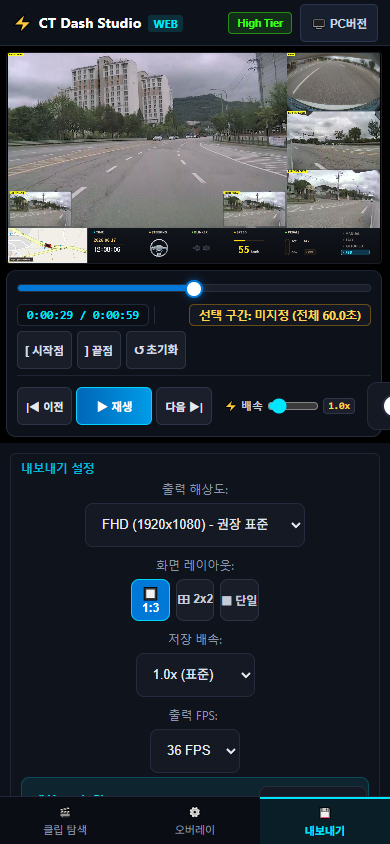
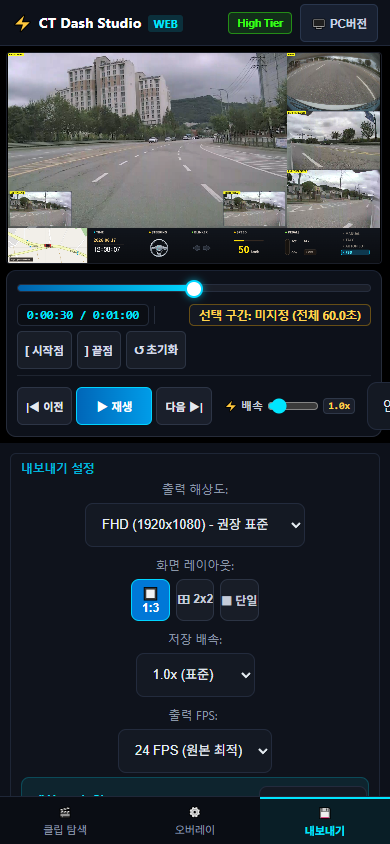
fix(mobile): resolve mobile freeze by supporting multi-file selection, non-blocking media loading, and safe SEI parsing

diff --git a/src/main.ts b/src/main.ts
@@ -41,6 +41,7 @@ class CTDashcamStudioApp {
 
   // Video elements pool
   private videoPool: Partial<Record<CameraKey, HTMLVideoElement>> = {};
+  private currentVideoUrls: string[] = [];
   private videoContainer: HTMLElement;
   private canvas: HTMLCanvasElement;
 
@@ -332,11 +333,21 @@ class CTDashcamStudioApp {
     });
     // 1. Open Folder Button & Fallback Inputs
     const btnOpenFolder = document.getElementById('btn-open-folder');
+    const btnOpenFiles = document.getElementById('btn-open-files');
     const fallbackFolderInput = document.getElementById('fallback-folder-input') as HTMLInputElement;
     const fallbackFileInput = document.getElementById('fallback-file-input') as HTMLInputElement;
 
     btnOpenFolder?.addEventListener('click', async () => {
-      // 1) 보안 컨텍스트(HTTPS or localhost)에서 File System Access API 지원 시 우선 사용
+      // 모바일 기기는 브라우저 webkitdirectory 폴더 지정을 지원하지 않으므로 곧바로 다중 파일 선택기 실행
+      if (this.isMobileDevice()) {
+        if (fallbackFileInput) {
+          fallbackFileInput.value = '';
+          fallbackFileInput.click();
+        }
+        return;
+      }
+
+      // 1) 데스크톱 보안 컨텍스트(HTTPS or localhost)에서 File System Access API 지원 시 우선 사용
       if ('showDirectoryPicker' in window && (window.isSecureContext || window.location.hostname === 'localhost' || window.location.hostname === '127.0.0.1')) {
         try {
           const dirHandle = await (window as any).showDirectoryPicker();
@@ -351,11 +362,18 @@ class CTDashcamStudioApp {
         }
       }
 
-      // 2) 다른 컴퓨터(HTTP 원격 접속 등)에서는 HTML5 표준 webkitdirectory 폴더 선택 창 실행
+      // 2) 데스크톱 브라우저 HTML5 표준 webkitdirectory 폴더 선택 창 실행
       if (fallbackFolderInput) {
         fallbackFolderInput.value = '';
         fallbackFolderInput.click();
       } else if (fallbackFileInput) {
+        fallbackFileInput.value = '';
+        fallbackFileInput.click();
+      }
+    });
+
+    btnOpenFiles?.addEventListener('click', () => {
+      if (fallbackFileInput) {
         fallbackFileInput.value = '';
         fallbackFileInput.click();
       }
@@ -1010,17 +1028,23 @@ class CTDashcamStudioApp {
         if (clip.isParking !== undefined) continue;
         const frontFile = clip.cams.front;
         if (frontFile) {
-          const handle = new BlobFileHandle(frontFile);
-          const isParking = await RealTeslaSEIDecoder.quickCheckIsParking(handle);
-          clip.isParking = isParking;
+          try {
+            const handle = new BlobFileHandle(frontFile);
+            const isParking = await RealTeslaSEIDecoder.quickCheckIsParking(handle);
+            clip.isParking = isParking;
 
-          // Update UI row badge
-          const tagEl = document.getElementById(`tag-${clip.id.replace(/[^a-zA-Z0-9_-]/g, '_')}`);
-          if (tagEl) {
-            tagEl.className = `clip-type-tag ${isParking ? 'parking' : 'driving'}`;
-            tagEl.textContent = `[${isParking ? '주차' : '주행'}] ${Object.keys(clip.cams).length}채널`;
+            // Update UI row badge
+            const tagEl = document.getElementById(`tag-${clip.id.replace(/[^a-zA-Z0-9_-]/g, '_')}`);
+            if (tagEl) {
+              tagEl.className = `clip-type-tag ${isParking ? 'parking' : 'driving'}`;
+              tagEl.textContent = `[${isParking ? '주차' : '주행'}] ${Object.keys(clip.cams).length}채널`;
+            }
+          } catch (e) {
+            console.warn('[App] quickCheckIsParking error:', e);
           }
         }
+        // Yield to event loop to keep UI completely responsive on mobile
+        await new Promise((resolve) => setTimeout(resolve, 10));
       }
     }
   }
@@ -1093,6 +1117,15 @@ class CTDashcamStudioApp {
 
     // Setup Video Elements
     this.videoContainer.innerHTML = '';
+    // Revoke previous URLs to prevent memory bloat on mobile devices
+    if (this.currentVideoUrls && this.currentVideoUrls.length > 0) {
+      this.currentVideoUrls.forEach((url) => {
+        try {
+          URL.revokeObjectURL(url);
+        } catch {}
+      });
+    }
+    this.currentVideoUrls = [];
     this.videoPool = {};
 
     const camKeys = Object.keys(clip.cams) as CameraKey[];
@@ -1101,30 +1134,58 @@ class CTDashcamStudioApp {
       if (!file) continue;
 
       const video = document.createElement('video');
-      video.src = URL.createObjectURL(file);
+      const url = URL.createObjectURL(file);
+      this.currentVideoUrls.push(url);
+      video.src = url;
       video.muted = true;
       video.playsInline = true;
+      video.setAttribute('playsinline', '');
+      video.setAttribute('webkit-playsinline', '');
       video.preload = 'auto';
       this.videoContainer.appendChild(video);
       this.videoPool[key] = video;
+      try {
+        video.load();
+      } catch {}
     }
 
-    // Get duration from master video
+    // Get duration from master video with safe timeout for mobile browsers
     const masterVideo = this.videoPool.front || Object.values(this.videoPool)[0];
     if (masterVideo) {
       await new Promise<void>((resolve) => {
-        if (masterVideo.readyState >= 1) resolve();
-        else masterVideo.onloadedmetadata = () => resolve();
+        if (masterVideo.readyState >= 1) {
+          resolve();
+          return;
+        }
+        let done = false;
+        const finish = () => {
+          if (!done) {
+            done = true;
+            resolve();
+          }
+        };
+        masterVideo.onloadedmetadata = finish;
+        masterVideo.onloadeddata = finish;
+        masterVideo.oncanplay = finish;
+        masterVideo.onerror = finish;
+        // 1.5s fallback timeout: ensures mobile UI never freezes if metadata is delayed or blocked
+        setTimeout(finish, 1500);
       });
-      this.durationSec = masterVideo.duration || 60.0;
+      this.durationSec = masterVideo.duration && !isNaN(masterVideo.duration) && masterVideo.duration > 0
+        ? masterVideo.duration
+        : 60.0;
     }
 
     // Parse SEI data from front camera
     if (clip.cams.front && !this.clipDecoders.has(clip.id)) {
-      const decoder = new RealTeslaSEIDecoder();
-      const handle = new BlobFileHandle(clip.cams.front);
-      await decoder.parseMp4Sei(handle);
-      this.clipDecoders.set(clip.id, decoder);
+      try {
+        const decoder = new RealTeslaSEIDecoder();
+        const handle = new BlobFileHandle(clip.cams.front);
+        await decoder.parseMp4Sei(handle);
+        this.clipDecoders.set(clip.id, decoder);
+      } catch (err) {
+        console.warn('[App] Failed to parse SEI metadata for clip', clip.id, err);
+      }
     }
 
     this.seekTo(0);

diff --git a/src/core/i18n.ts b/src/core/i18n.ts
@@ -3,6 +3,7 @@ export type SupportedLang = 'ko' | 'en' | 'ja' | 'zh-CN' | 'zh-TW';
 export const TRANSLATIONS: Record<SupportedLang, Record<string, string>> = {
   ko: {
     btn_open_folder: '📁 TeslaCam 폴더 지정',
+    btn_open_files: '📹 영상 파일(들) 직접 선택 (모바일 권장)',
     col_name: '클립 탐색기',
     col_type: '유형 / 채널',
     empty_state: '폴더를 지정하거나 영상 파일을 선택하면 클립 목록이 여기에 표시됩니다.',
@@ -50,6 +51,7 @@ export const TRANSLATIONS: Record<SupportedLang, Record<string, string>> = {
   },
   en: {
     btn_open_folder: '📁 Open TeslaCam Folder',
+    btn_open_files: '📹 Select Video File(s) (Mobile)',
     col_name: 'Clip Explorer',
     col_type: 'Type / Channels',
     empty_state: 'Select a TeslaCam folder to load clips here.',
@@ -97,6 +99,7 @@ export const TRANSLATIONS: Record<SupportedLang, Record<string, string>> = {
   },
   ja: {
     btn_open_folder: '📁 TeslaCamフォルダー指定',
+    btn_open_files: '📹 動画ファイルを直接選択 (モバイル推奨)',
     col_name: 'クリップエクスプローラー',
     col_type: 'タイプ / チャンネル',
     empty_state: 'フォルダーを指定するとクリップ一覧がここに表示されます。',
@@ -144,6 +147,7 @@ export const TRANSLATIONS: Record<SupportedLang, Record<string, string>> = {
   },
   'zh-CN': {
     btn_open_folder: '📁 指定TeslaCam文件夹',
+    btn_open_files: '📹 直接选择视频文件 (手机推荐)',
     col_name: '片段浏览器',
     col_type: '类型 / 通道',
     empty_state: '指定文件夹或选择视频文件后，片段列表将在此显示。',
@@ -191,6 +195,7 @@ export const TRANSLATIONS: Record<SupportedLang, Record<string, string>> = {
   },
   'zh-TW': {
     btn_open_folder: '📁 指定TeslaCam資料夾',
+    btn_open_files: '📹 直接選取影片檔案 (手機推薦)',
     col_name: '片段瀏覽器',
     col_type: '類型 / 頻道',
     empty_state: '指定資料夾或選取影片檔案後，片段清單將在此顯示。',
@@ -268,9 +273,11 @@ export class I18nManager {
     const lang = this.currentLang;
     const dict = TRANSLATIONS[lang] || TRANSLATIONS['ko'];
 
-    // 1. Folder button
+    // 1. Folder & File buttons
     const btnOpenFolder = document.getElementById('btn-open-folder');
     if (btnOpenFolder) btnOpenFolder.textContent = dict.btn_open_folder;
+    const btnOpenFiles = document.getElementById('btn-open-files');
+    if (btnOpenFiles) btnOpenFiles.textContent = dict.btn_open_files;
 
     // 2. Explorer header
     const colName = document.querySelector('.explorer-header .col-name');

diff --git a/index.html b/index.html
@@ -48,12 +48,20 @@
 
           <!-- 1-1. 클립 목록 섹션 (모바일 탭: clips) -->
           <div class="sidebar-section mobile-tab-section active" data-mobile-tab="clips">
-            <button id="btn-open-folder" class="btn btn-folder-load">
-              📁 TeslaCam 폴더 지정
-            </button>
-            <!-- 폴더 선택 전용 인풋 (다른 PC / HTTP 접속 환경 지원) -->
+            <div class="folder-load-deck">
+              <button id="btn-open-folder" class="btn btn-folder-load">
+                📁 TeslaCam 폴더 지정
+              </button>
+              <button id="btn-open-files" class="btn btn-folder-load btn-files-load">
+                📹 영상 파일(들) 직접 선택 (모바일 권장)
+              </button>
+            </div>
+            <div id="mobile-file-tip" class="mobile-file-tip">
+              💡 스마트폰(아이폰·갤럭시)은 모바일 OS 제약상 폴더 대신 <b>영상 파일들을 다중 선택(전체 선택)</b>하여 열어주세요.
+            </div>
+            <!-- 폴더 선택 및 파일 다중 선택 전용 인풋 -->
             <input type="file" id="fallback-folder-input" webkitdirectory directory multiple style="display: none;" />
-            <input type="file" id="fallback-file-input" multiple accept="video/mp4,video/*" style="display: none;" />
+            <input type="file" id="fallback-file-input" multiple accept="video/mp4,video/*,.mp4" style="display: none;" />
 
             <!-- 클립 탐색기 테이블 -->
             <div class="explorer-card">
@@ -397,7 +405,7 @@
       </div>
 
       <!-- 동기 재생용 숨김 비디오 풀 -->
-      <div id="hidden-video-container" style="display: none;"></div>
+      <div id="hidden-video-container" class="hidden-video-pool"></div>
     </div>
 
     <script type="module" src="/src/main.ts"></script>

diff --git a/src/core/clipScanner.ts b/src/core/clipScanner.ts
@@ -17,13 +17,13 @@ export interface FolderGroup {
   clips: ClipItem[];
 }
 
-const CAM_REGEX = /(\d{4}-\d{2}-\d{2}_\d{2}-\d{2}-\d{2})-(front|back|left_repeater|right_repeater|left_pillar|right_pillar)\.mp4$/i;
+const CAM_REGEX = /(\d{4}-\d{2}-\d{2}_\d{2}-\d{2}-\d{2})-(front|back|left_repeater|right_repeater|left_pillar|right_pillar)(?: \(\d+\))?\.mp4$/i;
 
 export function groupFilesIntoClips(files: File[]): FolderGroup[] {
   const mapByFolderAndTimestamp = new Map<string, { folder: string; timestampRaw: string; cams: Partial<Record<CameraKey, File>> }>();
 
   for (const file of files) {
-    const relPath = file.webkitRelativePath || file.name;
+    const relPath = (file as any)._relativePath || file.webkitRelativePath || file.name;
     const match = relPath.match(CAM_REGEX);
     if (!match) continue;
 
@@ -96,10 +96,15 @@ export async function scanFileSystemDirectory(dirHandle: FileSystemDirectoryHand
       if (entry.kind === 'file') {
         const file = await (entry as FileSystemFileHandle).getFile();
         // store relative path for groupFilesIntoClips
-        Object.defineProperty(file, 'webkitRelativePath', {
-          value: entryPath,
-          writable: false,
-        });
+        try {
+          Object.defineProperty(file, 'webkitRelativePath', {
+            value: entryPath,
+            writable: false,
+            configurable: true,
+          });
+        } catch {
+          (file as any)._relativePath = entryPath;
+        }
         files.push(file);
       } else if (entry.kind === 'directory') {
         await traverse(entry as FileSystemDirectoryHandle, entryPath);

diff --git a/src/style.css b/src/style.css
@@ -91,6 +91,58 @@ body {
   box-shadow: 0 0 10px rgba(0, 120, 215, 0.45);
 }
 
+.folder-load-deck {
+  display: flex;
+  flex-direction: column;
+  gap: 6px;
+  flex-shrink: 0;
+  margin-bottom: 2px;
+}
+
+.btn-files-load {
+  background: linear-gradient(135deg, #10b981 0%, #059669 100%);
+  border-color: #059669;
+}
+
+.btn-files-load:hover {
+  background: linear-gradient(135deg, #059669 0%, #047857 100%);
+  box-shadow: 0 0 10px rgba(16, 185, 129, 0.45);
+}
+
+.mobile-file-tip {
+  display: none;
+  font-size: 11px;
+  color: #94a3b8;
+  background: rgba(30, 41, 59, 0.6);
+  border: 1px solid rgba(148, 163, 184, 0.25);
+  border-radius: 6px;
+  padding: 6px 8px;
+  line-height: 1.4;
+  margin-bottom: 4px;
+}
+
+@media (max-width: 850px) {
+  .mobile-file-tip {
+    display: block;
+  }
+}
+.view-mobile .mobile-file-tip {
+  display: block;
+}
+
+/* 동기 재생용 숨김 비디오 풀: display: none 사용 금지 (iOS/Android 미디어 엔진 중단 방지) */
+.hidden-video-pool {
+  position: fixed;
+  top: -9999px;
+  left: -9999px;
+  width: 1px;
+  height: 1px;
+  opacity: 0;
+  pointer-events: none;
+  overflow: hidden;
+  z-index: -9999;
+}
+
 /* 1-1. 클립 목록 섹션 (PC 데스크톱: 남은 공간 차지 & 내부 탐색기만 스크롤) */
 .sidebar-section[data-mobile-tab="clips"] {
   flex: 1 1 0%;

diff --git a/test/edge_e2e_mobile_test.js b/test/edge_e2e_mobile_test.js
@@ -44,7 +44,7 @@ async function runEdgeMobileTest() {
     console.log(`[Browser ${msg.type()}]`, msg.text());
   });
 
-  await page.goto('http://localhost:5173', { waitUntil: 'networkidle0' });
+  await page.goto('http://localhost:5173/CT-dashcam-studio-WEB/', { waitUntil: 'networkidle0' });
 
   // 1. Check Mobile Portrait Auto-detection
   const isMobileDetected = await page.evaluate(() => {
